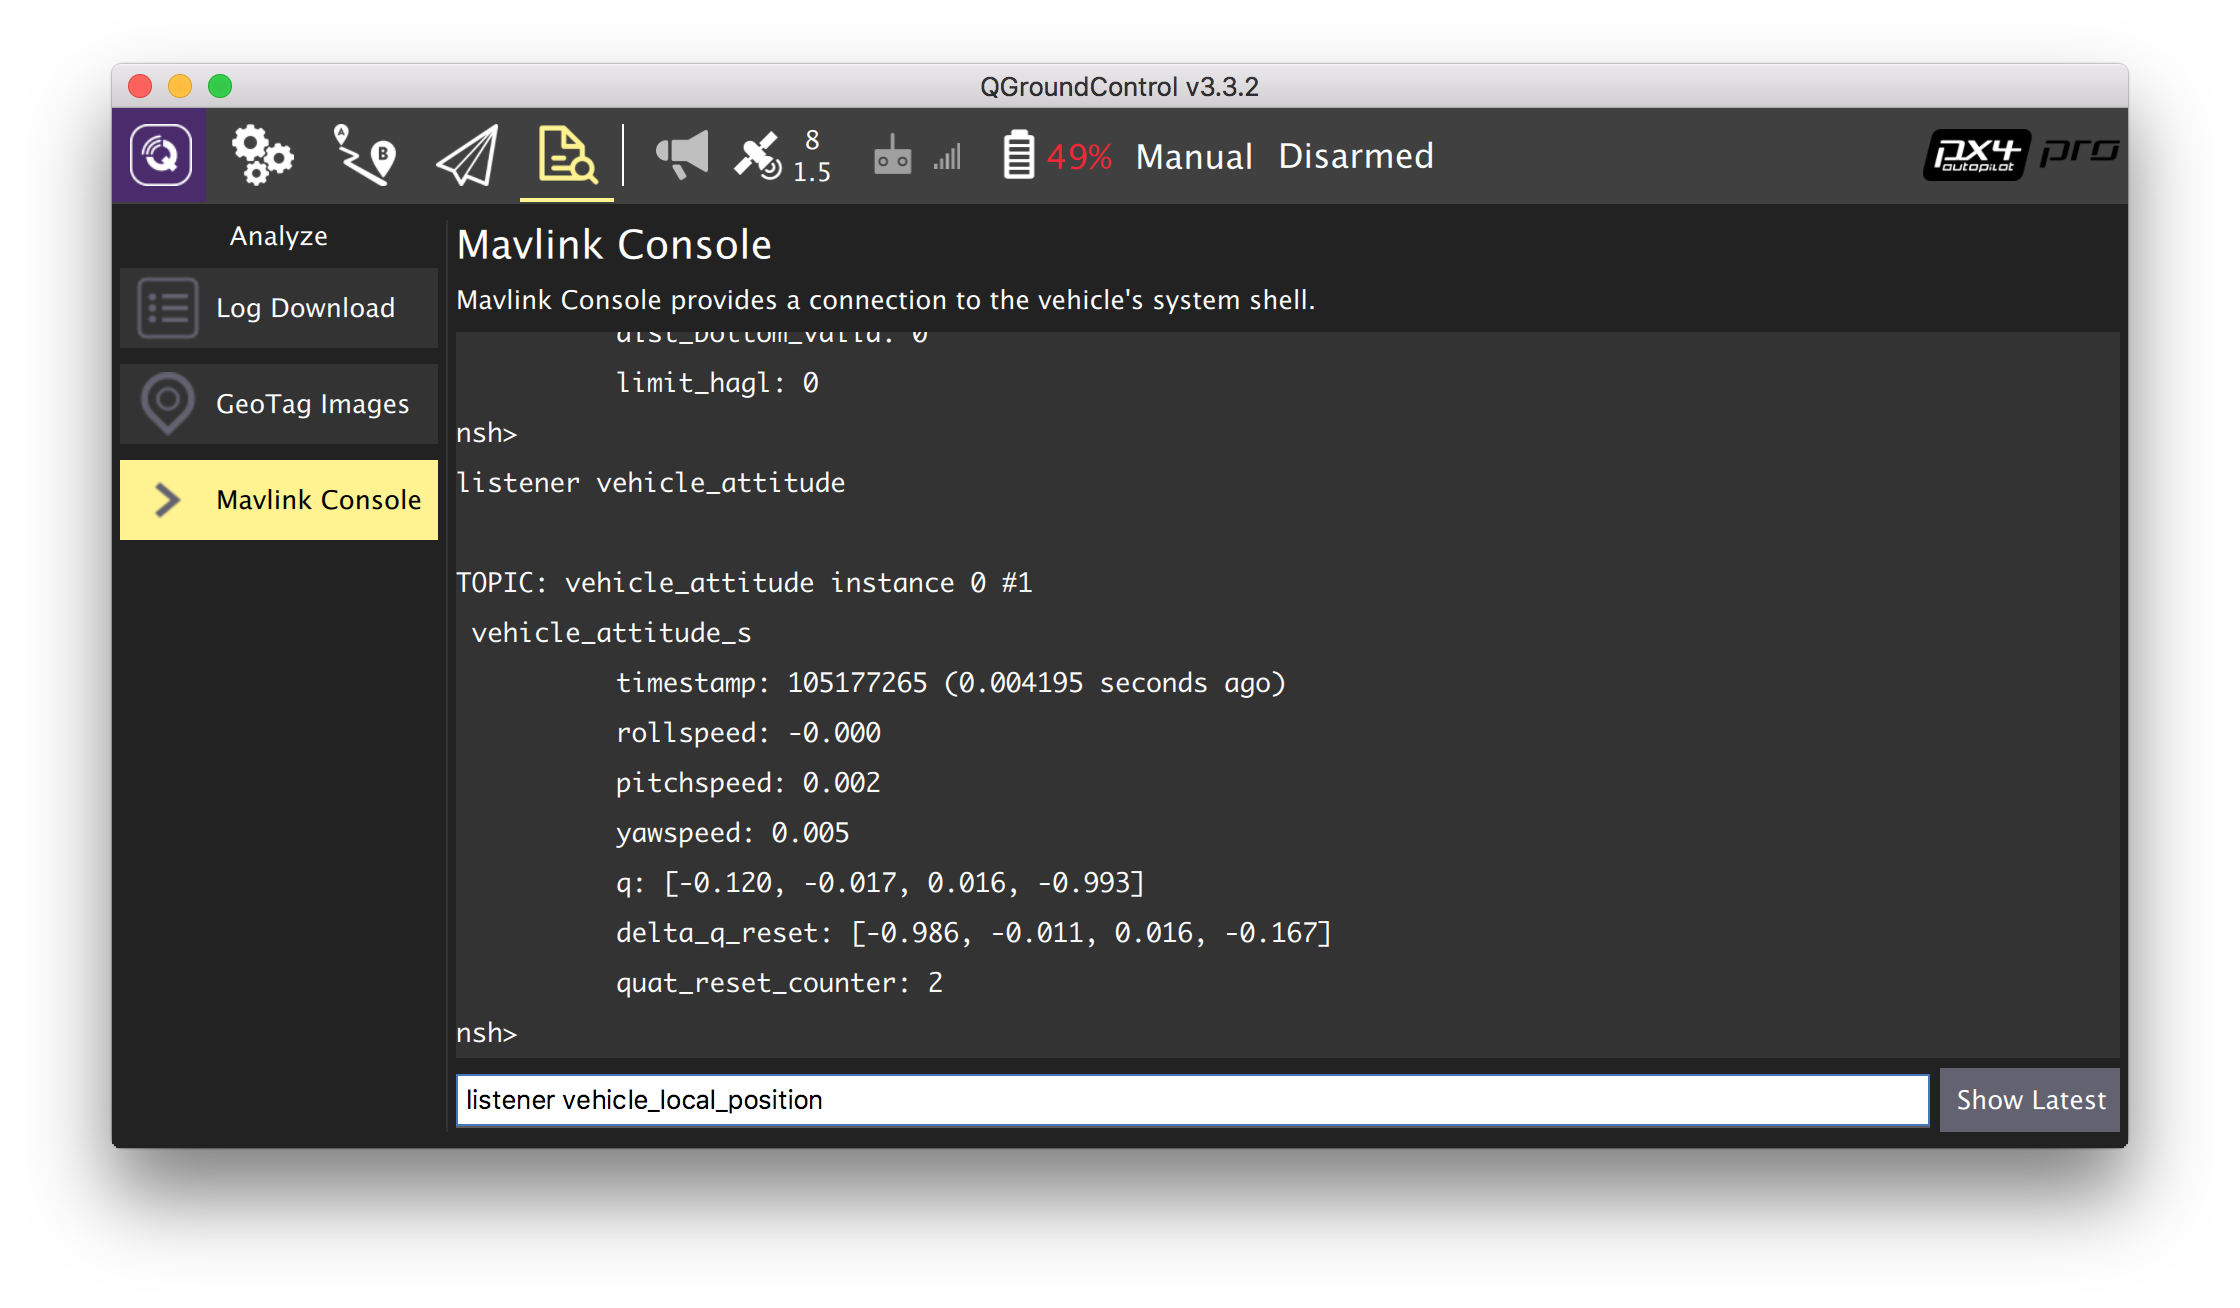
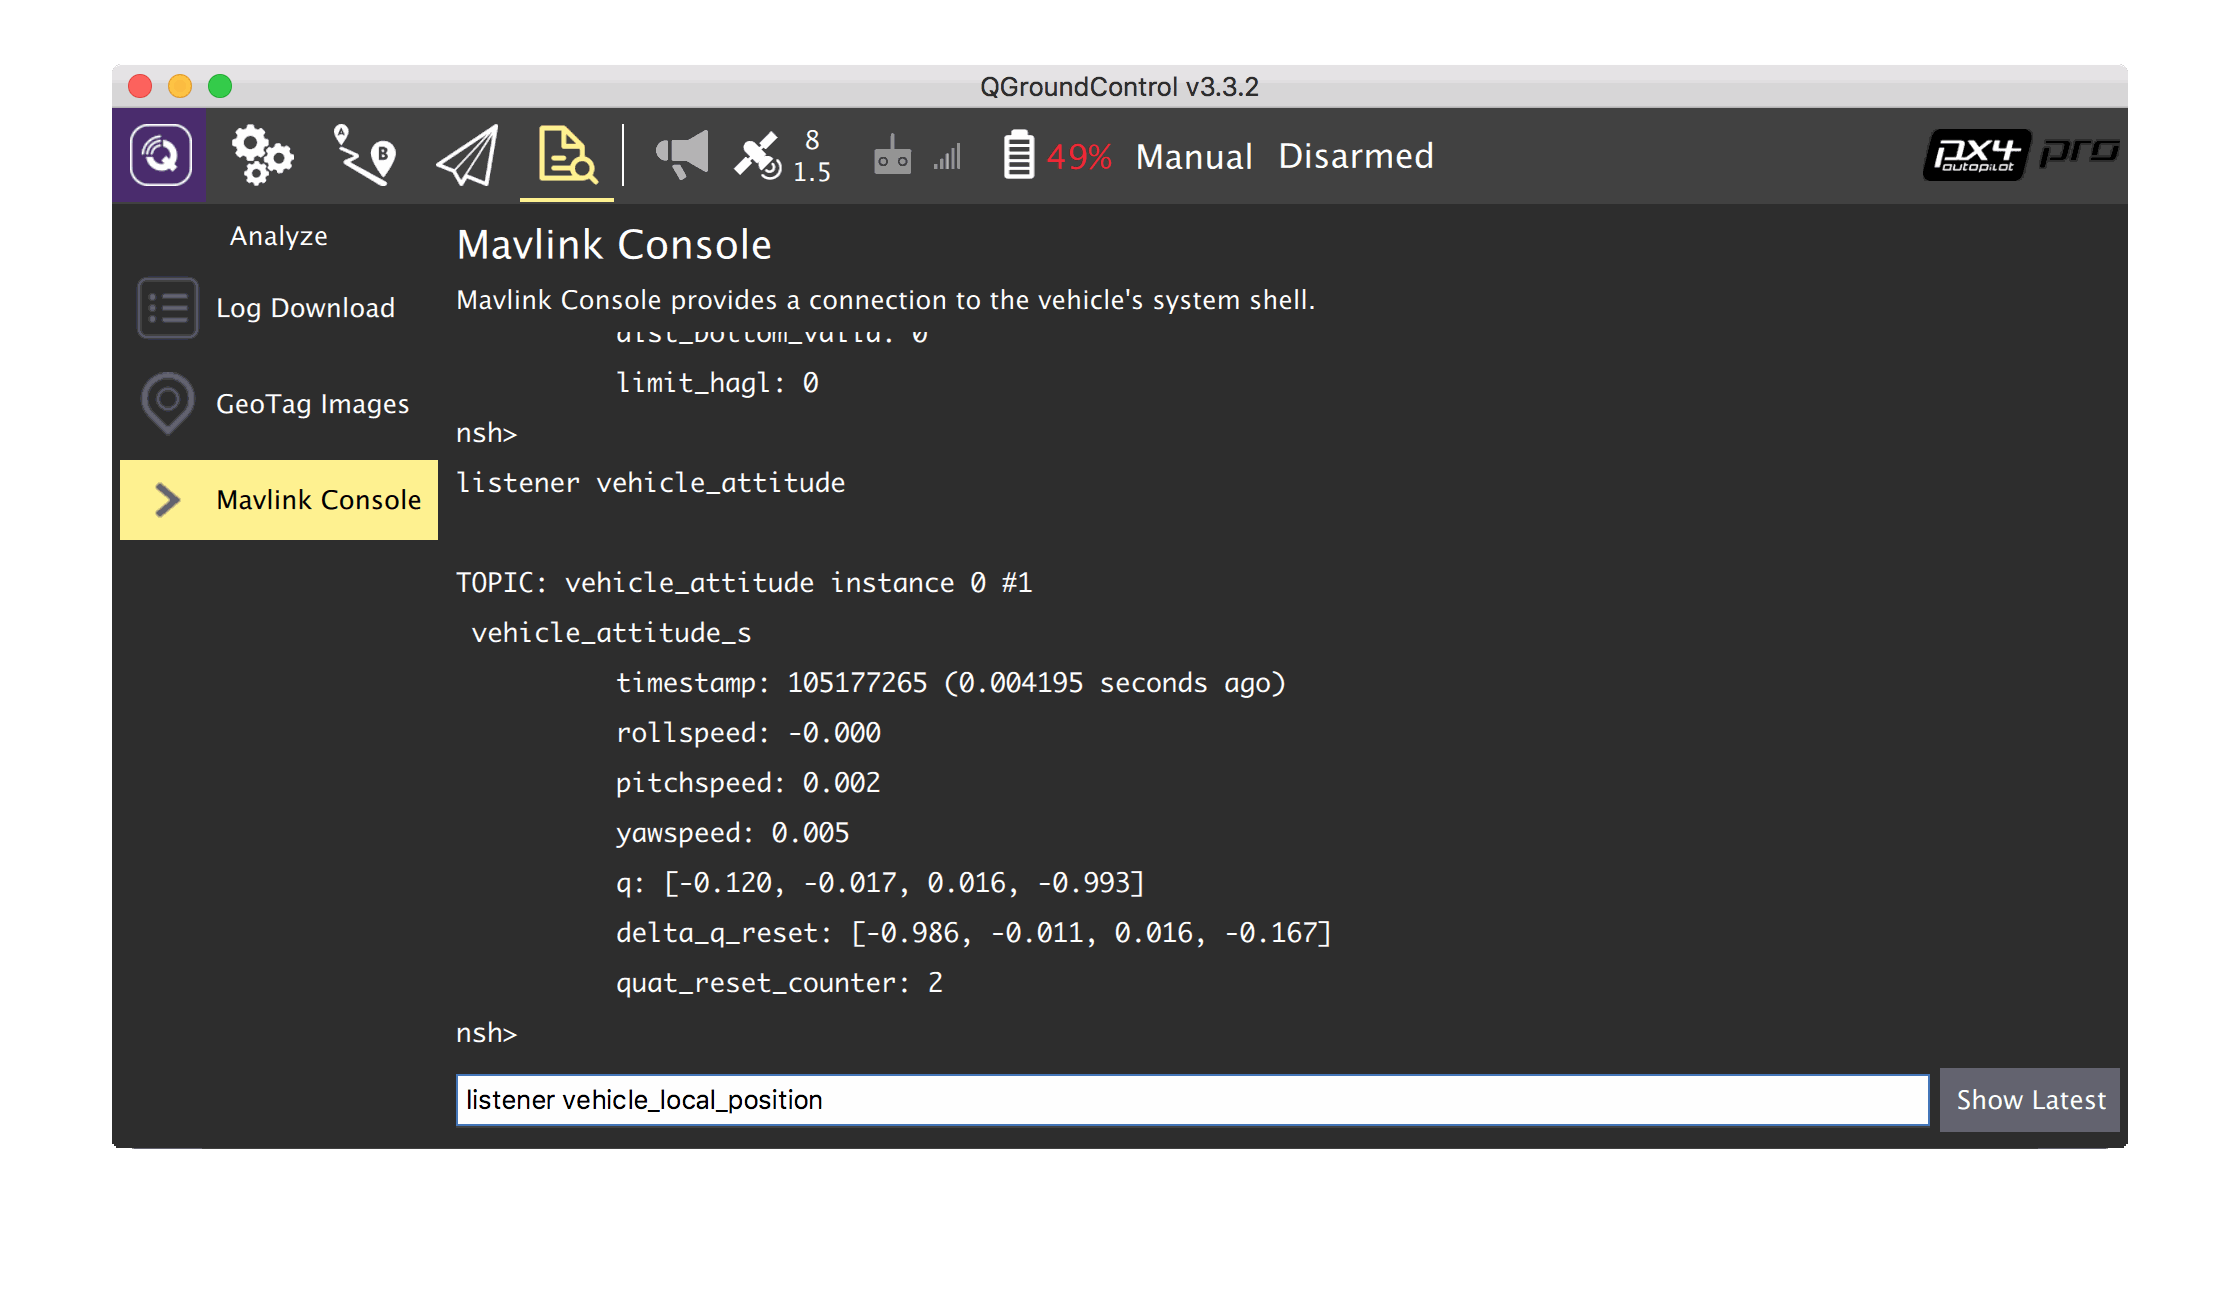
Optimize some photo in docs

Changed region(s): [[0.0312, 0.0917, 0.9688, 0.948]]

diff --git a/docs/ru/lesson1.md b/docs/ru/lesson1.md
@@ -113,7 +113,7 @@
 Как правило, когда речь заходит об управлении моделью катера или самолёта, оператор имеет абсолютный, точный контроль над работой мотора. Нажатие на джойстик пульта приводит к пропорциональному увеличению скорости вращения винтов (в об./мин). Отличие многовинтовых летательных аппаратов (вне зависимости от того, достоинство это или недостаток) в том, что ни один человек не в состоянии одновременно контролировать скорость вращения трёх и более моторов достаточно точно, чтобы сохранять баланс аппарата в воздухе.
 Именно здесь в игру вступают Полетные контроллеры.
 
-![Flightctr](../assets/1_10.png)
+![Flightctr](../assets/1_10.jpg)
 
 **Полетный контроллер** - самая важная часть. Стабильность полета и управляемость на девяносто процентов зависит от способностей полетного контроллера.
 Задача полетного контроллера — переводить команды от пульта управления в сигналы задающие обороты двигателя. Также в нем установлены инерциальные измерительные датчики, позволяющие следить за текущим положением платформы и выполнять автоматические регулировки.

diff --git a/docs/ru/lesson3.md b/docs/ru/lesson3.md
@@ -97,7 +97,7 @@
 эффект: спихнул нечаянно плату-«каракатицу» на пол – 1-2 или более дорожек
 отслоились. Не дожидаясь и первой перепайки.
 
-![soldering](../assets/4_5.png)
+![soldering](../assets/4_5.jpg)
 
 Паечные наплывы на печатных платах должны быть округлыми гладкими высотой не более 0,7 диаметра монтажной площадки, см. справа на рис. Кончики выводов должны немного выступать из наплывов. Кстати, плата полностью самодельная. Есть способ в домашних условиях сделать печатный монтаж таким же точным и четким, как фабричный, да еще и вывести там надписи, какие хочется. Белые пятнышки – блики от лака при фотосъемке. Наплывы вогнутые и тем более сморщенные – тоже брак. Просто вогнутый наплыв значит, что припоя недостаточно, а морщинистый, кроме того, что в пайку проник воздух. Если собранное устройство не работает и есть подозрение на непропай, смотрите в первую очередь такие места.
 

diff --git a/docs/ru/shield.md b/docs/ru/shield.md
@@ -52,7 +52,7 @@
 
 После того как все было напечатано и порезано, настало время собирать защиту.
 
-![detal](../assets/detal.png)
+![detal](../assets/detal.jpg)
 
 Сборка здесь самый ответственный момент, так как требует специального алгоритма.
 
@@ -68,9 +68,9 @@
 
 После сборки разделяем шар на две полусферы, устанавливаем крепления на коптер, смотрим, что все подходит.
 
-![detal1](../assets/detal1.png)
+![detal1](../assets/detal1.jpg)
 
-![detal2](../assets/detal2.png)
+![detal2](../assets/detal2.jpg)
 
 (Пример установки креплений)
 
@@ -78,7 +78,7 @@
 
 После высыхания защита готова к установке и первым пробным полетам!
 
-![finalball](../assets/finalball.png)
+![finalball](../assets/finalball.jpg)
 
 (Пока еще без креплений)
 

diff --git a/docs/ru/lesson4.md b/docs/ru/lesson4.md
@@ -32,7 +32,7 @@
 
 Для постройки квадрокоптера нужно две пары разнонаправленных винтов, для гексакоптера – три пары и т.д.
 
-![rotation](../assets/7_3.png)
+![rotation](../assets/7_3.jpg)
 
 5\. **Направление вращения винтов** - классическое - против часовой стрелки 2 винта, по часовой стрелке другие 2 винта на квадрокоптерах.
 6\. **Качество изготовления пропеллеров** тоже важно. На практике это означает, что обязательно нужно балансировать пропеллеры, чтобы минимизировать вибрацию, которая разрушает механические части (постепенно), а также сводит с ума гироскопы, ухудшая полетные свойства мультикоптера.

diff --git a/docs/en/shield.md b/docs/en/shield.md
@@ -52,7 +52,7 @@ The sticks were cut to the calculated length and prepared for subsequent work.
 
 After everything has been printed and cut, it is time to assemble the guard.
 
-![detal](../assets/detal.png)
+![detal](../assets/detal.jpg)
 
 Assembly is the most crucial moment, as it requires a special algorithm.
 
@@ -68,9 +68,9 @@ Assembly:
 
 After assembly, divide the ball into 2 hemispheres and install the mounts on the copter making sure that everything fits.
 
-![detal1](../assets/detal1.png)
+![detal1](../assets/detal1.jpg)
 
-![detal2](../assets/detal2.png)
+![detal2](../assets/detal2.jpg)
 
 (An example of fasteners installation)
 
@@ -78,7 +78,7 @@ Now, the hemispheres may be glued. The hemispheres are not to be glued to each o
 
 After drying, the guard is ready for installation and for the first test flight!
 
-![finalball](../assets/finalball.png)
+![finalball](../assets/finalball.jpg)
 
 (without fasteners yet)
 

diff --git a/docs/ru/fpv.md b/docs/ru/fpv.md
@@ -32,14 +32,14 @@
 
 Готовые коннекторы вставить в соответствующие разъёмы и запаять провода питания на плату распределения питания согласно схеме:
 
-![FPV3](../assets/fpv_3.png)
+![FPV3](../assets/fpv_3.jpg)
 
 > **Warning** В данной схеме питание камеры идёт на 12V (Однако возможно использовать 5V).
 > Питание передатчика идёт на питание регулятора (однако возможно использовать 12V).
 
 ## Установка компонентов FPV
 
-![FPV4](../assets/fpv_4.png)
+![FPV4](../assets/fpv_4.jpg)
 
 В качестве крепежных материалов можно использовать:
 

diff --git a/docs/en/fpv.md b/docs/en/fpv.md
@@ -32,14 +32,14 @@ The same procedure applies here:
 
 Prepared connectors are to be inserted into appropriate sockets, and power wires are to be soldered to the power distribution board according to the circuit diagram:
 
-![FPV3](../assets/fpv_3.png)
+![FPV3](../assets/fpv_3.jpg)
 
 > **Warning** In this circuit diagram, the camera is powered from 12 V (however, it is possible to use 5 V).
 > The transmitter is powered from the ESC power (however, it is possible to use 12 V).
 
 ## Installing FPV components
 
-![FPV4](../assets/fpv_4.png)
+![FPV4](../assets/fpv_4.jpg)
 
 The following may be used as fastening materials:
 

diff --git a/docs/ru/deck.md b/docs/ru/deck.md
@@ -4,4 +4,4 @@
 Они абсолютно одинаковые.
 Поэтому для дальнейшего удобства понимания инструкции условно разделим их на верхнюю и нижнюю дополнительные рамы
 
-![Общая раскладка](../assets/allElements.png)
+![Общая раскладка](../assets/allElements.jpg)

diff --git a/docs/ru/rviz.md b/docs/ru/rviz.md
@@ -54,7 +54,7 @@ sudo apt-get install ros-kinetic-jsk-visualization
 Запуск инструментов rqt
 ---
 
-![rqt](../assets/rqt.png)
+![rqt](../assets/rqt.jpg)
 
 Для запуска rqt для мониторинга состояния Клевера используйте команду:
 

diff --git a/docs/en/rviz.md b/docs/en/rviz.md
@@ -54,7 +54,7 @@ sudo apt-get install ros-kinetic-jsk-visualization
 Starting the rqt toolkit
 ---
 
-![rqt](../assets/rqt.png)
+![rqt](../assets/rqt.jpg)
 
 To start rqt for monitoring Clever status, use command:
 
